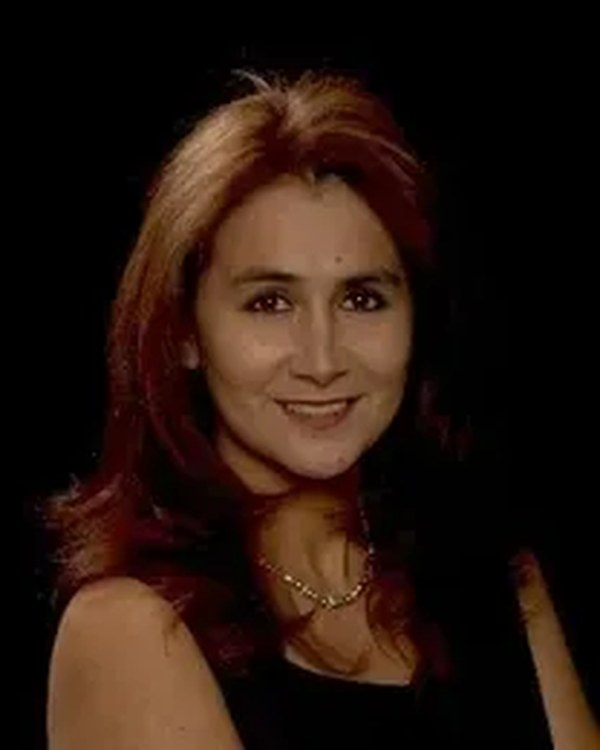
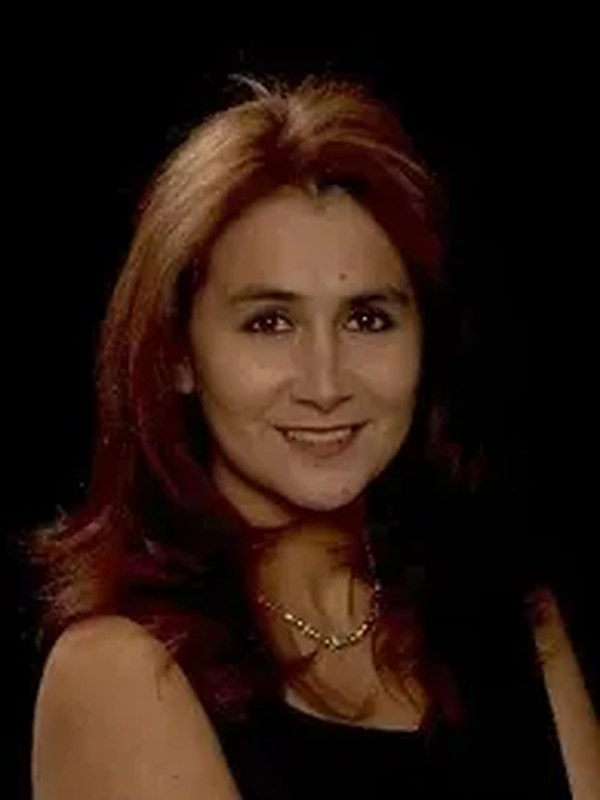
Leadership: equal card sizes, Victoria recrop

diff --git a/index.html b/index.html
@@ -133,14 +133,15 @@ header{position:sticky;top:0;z-index:10;background:rgba(255,255,255,.94);backdro
 
 /* about / leadership */
 .about{padding:clamp(56px,8vw,110px) 0;border-bottom:1px solid var(--rule)}
-.team{list-style:none;margin:0;padding:0;display:grid;grid-template-columns:repeat(4,1fr);gap:32px}
+.team{list-style:none;margin:0;padding:0;display:grid;grid-template-columns:repeat(4,minmax(0,1fr));gap:32px}
+.team>li{min-width:0}
 .team li{border-top:3px solid var(--red);padding-top:18px}
-.team>li>img,.team>li>.initials{width:100%;aspect-ratio:3/4;object-fit:cover;object-position:top;display:block;background:var(--stone);margin-bottom:16px}
+.team>li>img,.team>li>.initials{width:100%;height:auto;aspect-ratio:3/4;object-fit:cover;object-position:top;display:block;background:var(--stone);margin-bottom:16px}
 .team>li>.initials{display:flex;align-items:center;justify-content:center;font-size:64px;font-weight:800;color:var(--rule-strong);letter-spacing:.04em}
 .team strong{display:block;font-size:21px;line-height:1.15}
 .team .role{display:block;color:var(--red);font-weight:600;font-size:14.5px;margin:4px 0 10px}
 .team p{margin:0;color:var(--slate);font-size:15px;line-height:1.5}
-.team .reach{display:block;margin-top:10px;font-size:14px}
+.team .reach{display:block;margin-top:10px;font-size:14px;line-height:1.5}
 .team .reach a{text-decoration:none;color:var(--ink)}
 .team .reach a:hover{color:var(--red)}
 @media (max-width:900px){.team{grid-template-columns:1fr 1fr}}
@@ -370,11 +371,11 @@ footer .legal .eho svg{width:22px;height:22px}
         <p>Biography and photograph coming soon.</p>
       </li>
       <li>
-        <img src="victoria.jpg" alt="Victoria Ralicki" width="600" height="750">
+        <img src="victoria.jpg" alt="Victoria Ralicki" width="600" height="800">
         <strong>Victoria Ralicki</strong>
         <span class="role">Partner, Red Rock Lending</span>
         <p>Victoria leads Red Rock Lending day to day — matching each borrower to the right program and running the file from first call to closing. Bilingual in English and Spanish.</p>
-        <span class="reach"><a href="tel:+13214465410">321-446-5410</a> · <a href="mailto:victoria.ralicki@redrocklendingusa.com">victoria.ralicki@redrocklendingusa.com</a></span>
+        <span class="reach"><a href="tel:+13214465410">321-446-5410</a><br><a href="mailto:victoria.ralicki@redrocklendingusa.com">victoria.ralicki<wbr>@redrocklendingusa.com</a></span>
       </li>
     </ul>
   </div>
